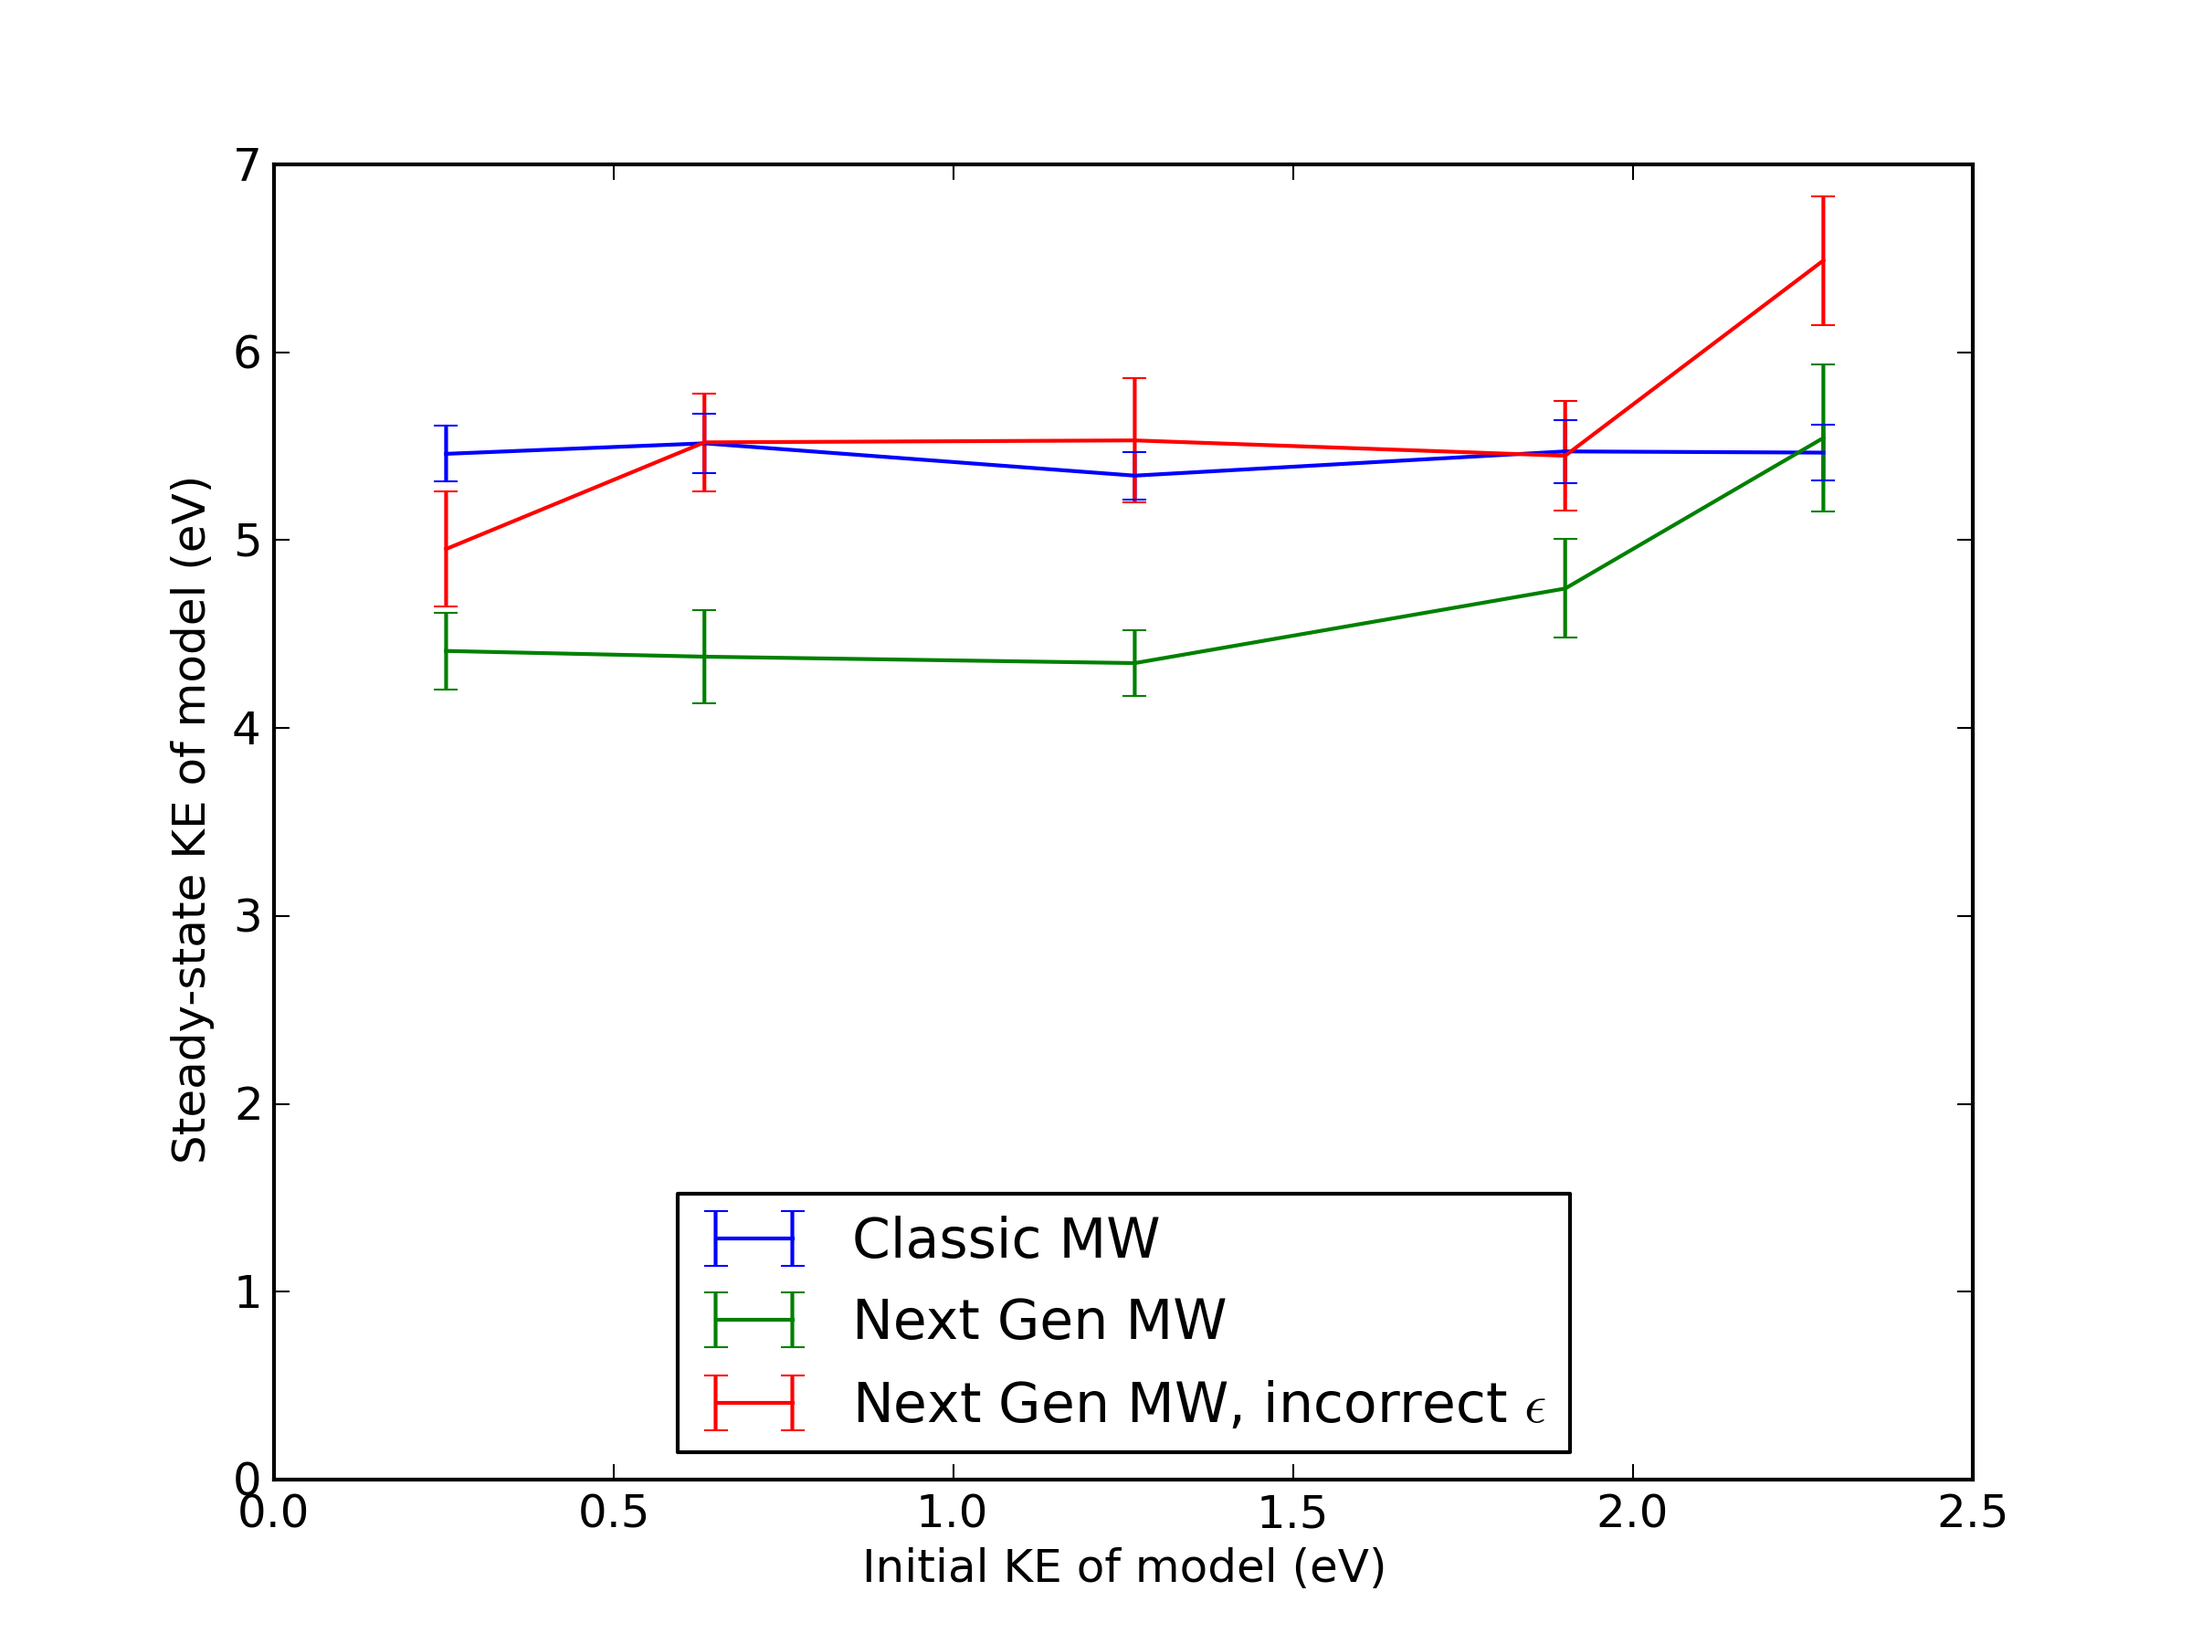
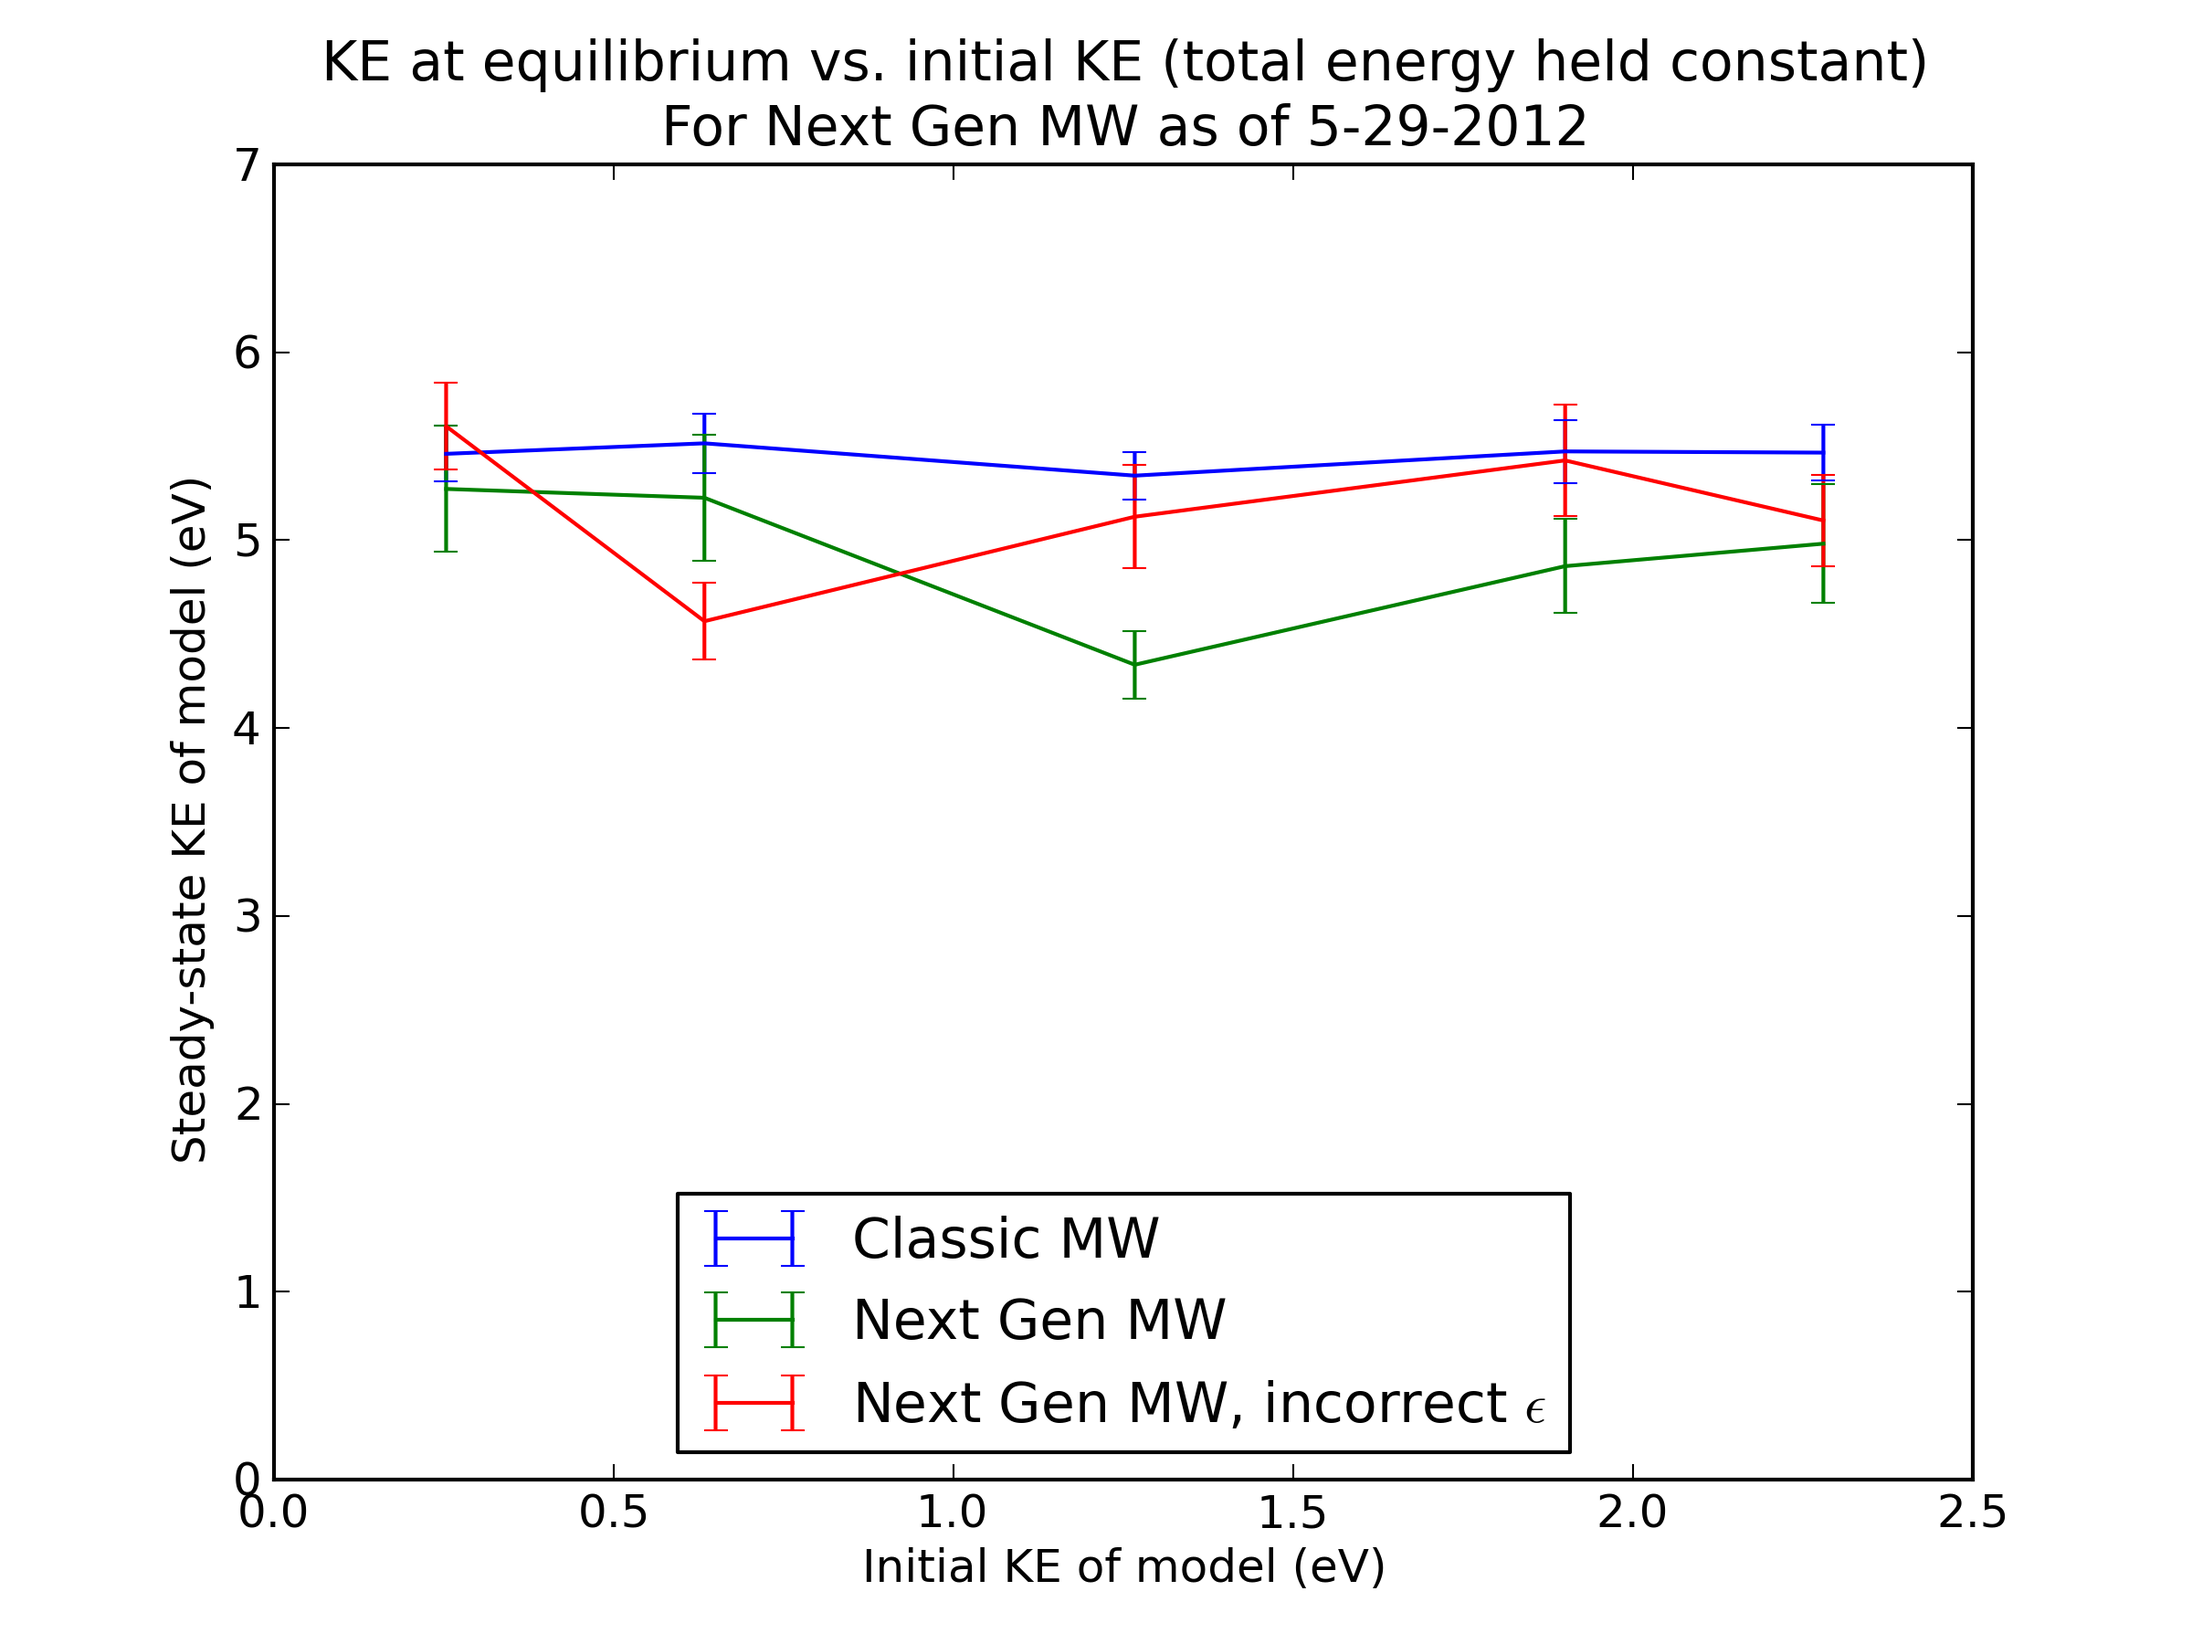
Plot the new data

diff --git a/models/epsilon-test/plot.py b/models/epsilon-test/plot.py
@@ -50,6 +50,8 @@ plt.errorbar(initial_ke, classic_ke, yerr=classic_sd, label='Classic MW')
 plt.errorbar(initial_ke, nextgen_ke, yerr=nextgen_sd, label='Next Gen MW')
 plt.errorbar(initial_ke, nextgen_control_ke, yerr=nextgen_control_sd, label=r'Next Gen MW, incorrect $\epsilon$')
 
+
+plt.title("KE at equilibrium vs. initial KE (total energy held constant)\nFor Next Gen MW as of 5-29-2012");
 plt.ylim(0, 7)
 plt.xlabel(r'Initial KE of model (eV)')
 plt.ylabel(r'Steady-state KE of model (eV)')
